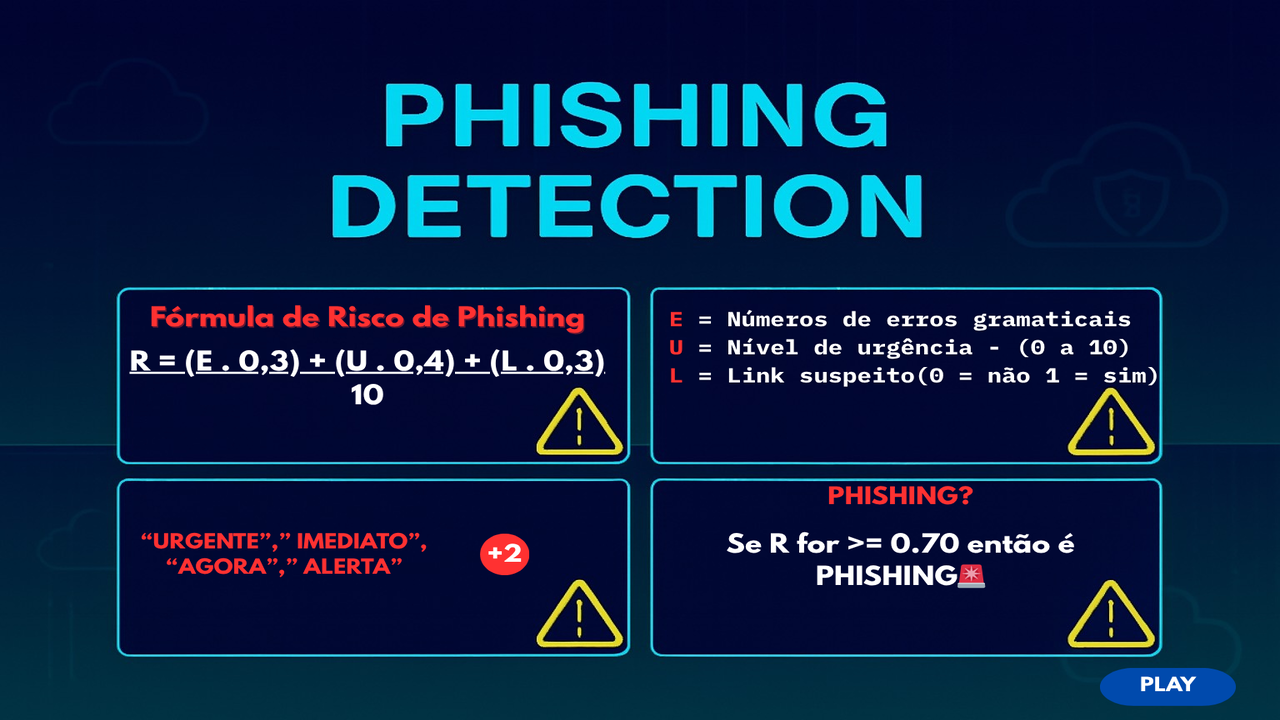
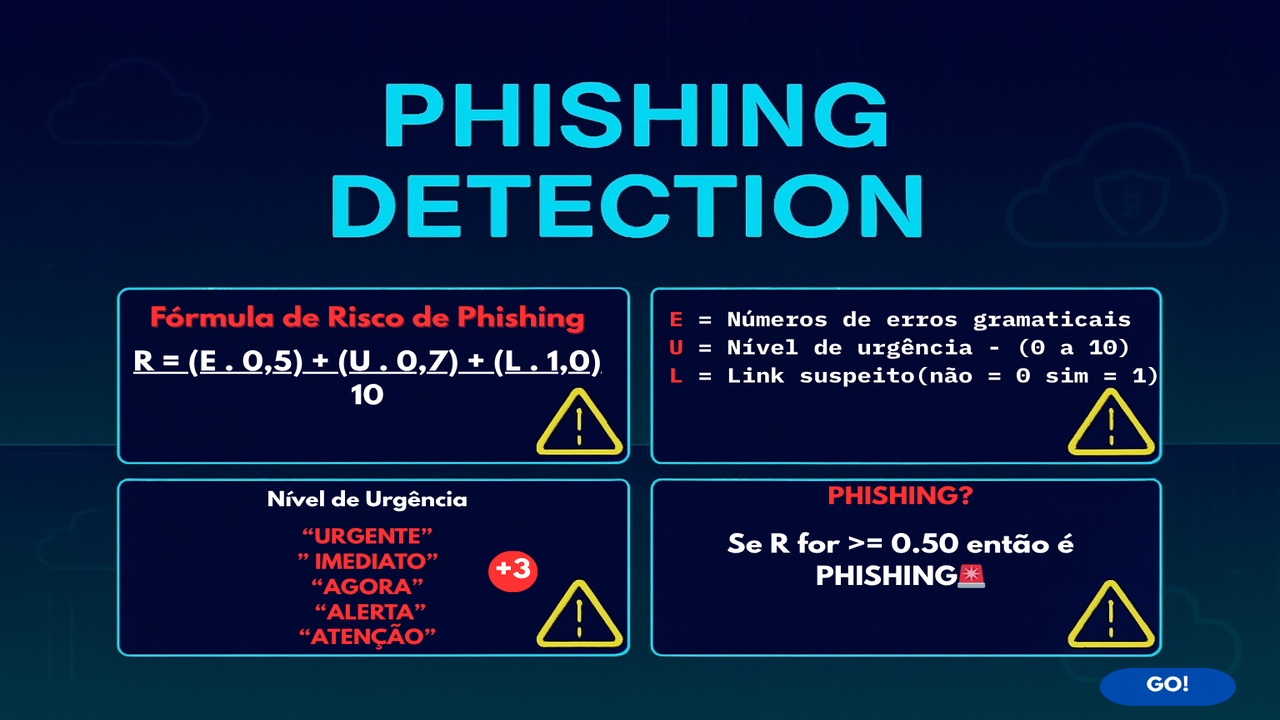
funcionalidades fase 3

diff --git a/HACKING THE SYSTEM/main.c b/HACKING THE SYSTEM/main.c
@@ -120,7 +120,9 @@ int main() {
     tela_fase2.btn_y1 = 180;
     tela_fase2.btn_y2 = 625;
 
-    //CRIANDO STRUCT PARA IR PARA FASE 3
+    //CRIANDO STRUCT PARA FUNCIONALIDADES DA FASE 3
+    // 
+    //-----------------------------------------------------------------//
 
     struct botao tela_fase3;
 
@@ -140,7 +142,21 @@ int main() {
     peixe.btn_x1 = 1140;
     peixe.btn_x2 = 1245;
     peixe.btn_y1 = 40;
-    peixe.btn_y2 = 100;
+    peixe.btn_y2 = 105;
+
+    struct botao phishing;
+    phishing.btn_x1 = 245;
+    phishing.btn_x2 = 465;
+    phishing.btn_y1 = 600;
+    phishing.btn_y2 = 653;
+
+    struct botao legitimo;
+    legitimo.btn_x1 = 840;
+    legitimo.btn_x2 = 1055;
+    legitimo.btn_y1 = 600;
+    legitimo.btn_y2 = 653;
+
+    //-----------------------------------------------------------------//
 
     //STRUCT PARA TELA DE PROXIMA FASE
 
@@ -255,7 +271,9 @@ int main() {
     ALLEGRO_BITMAP* guanabara_fase2 = al_load_bitmap("GAFANHOTO2.png");
     ALLEGRO_BITMAP* guanabara_fase3 = al_load_bitmap("GAFANHOTO3.png");
 	ALLEGRO_BITMAP* sprite = al_load_bitmap("PERSONAGEM.png");
-    ALLEGRO_BITMAP* tela_phishing1 = al_load_bitmap("PHISHING(invasao).png");
+    ALLEGRO_BITMAP* tela_phishing1 = al_load_bitmap("PHISHING(pagamento).png");
+    ALLEGRO_BITMAP* tela_phishing2 = al_load_bitmap("LEGITIMO(entrega).png");
+
 
 
     ALLEGRO_EVENT_QUEUE* fila_eventos = al_create_event_queue(); // criação da fila de eventos
@@ -278,6 +296,9 @@ int main() {
 
     // CRIANDO UMA VÁRIAVEL DE VELOCIDADE PARA O PERSONGEM
     int velocidade_personagem = 10;
+
+    // VARIÁVEL DE RESPOSTAS DA FASE 3
+    int respostas_fase3 = 0;
 
     bool jogando = true;
     while (jogando) {
@@ -584,6 +605,11 @@ int main() {
             if (mouseX >= prox_fase.btn2_x1 && mouseX <= prox_fase.btn2_x2 && mouseY >= prox_fase.btn2_y1 && mouseY <= prox_fase.btn2_y2) { tela = 0; }
         }
     }
+
+
+    //--------------------------FASE-3-----------------------------//
+    // 
+  
     //TELA COM A FASE 3 DESBLOQUEADA
     if (tela == 14) {
         al_clear_to_color(al_map_rgb(0,0,144));
@@ -597,8 +623,7 @@ int main() {
 
         }
 
-        
-        
+
     }
 
     //TELA DE FASE COM O GUANABARA 3
@@ -619,25 +644,59 @@ int main() {
         }
     }
 
-    //TELA MENAGENS
+    //TELA MENSAGENS
 
     if (tela == 17) {
         al_draw_bitmap(tela_phishing1, 0, 0, 0);
-        //al_draw_filled_rectangle(peixe.btn_x1, peixe.btn_y1, peixe.btn_x2, peixe.btn_y2, al_map_rgb(255, 154, 32));
-        if (evento.mouse.button & 1) {
-            if (mouseX >= peixe.btn_x1 && mouseX <= peixe.btn_x2 && mouseY >= peixe.btn_y1 && mouseY <= peixe.btn_y2) { tela = 16; }
+
+        if (evento.type == ALLEGRO_EVENT_MOUSE_BUTTON_DOWN && (evento.mouse.button & 1)) {
+            if (mouseX >= peixe.btn_x1 && mouseX <= peixe.btn_x2 && mouseY >= peixe.btn_y1 && mouseY <= peixe.btn_y2) {
+                tela = 16;
+                continue;
+            }
+            if (mouseX >= phishing.btn_x1 && mouseX <= phishing.btn_x2 && mouseY >= phishing.btn_y1 && mouseY <= phishing.btn_y2) {
+                respostas_fase3++;
+                tela = 18;
+                continue;
+            }
+            if (mouseX >= legitimo.btn_x1 && mouseX <= legitimo.btn_x2 && mouseY >= legitimo.btn_y1 && mouseY <= legitimo.btn_y2) {
+                tela = 18;
+                continue;
+            }
         }
-
     }
-
-  
-    //TELA FINAL
 
     if (tela == 18) {
-        al_draw_bitmap(tela_final, 0, 0, 0);
-        
-    }
+        al_draw_bitmap(tela_phishing2, 0, 0, 0);
 
+        if (evento.type == ALLEGRO_EVENT_MOUSE_BUTTON_DOWN && (evento.mouse.button & 1)) {
+
+            if (mouseX >= phishing.btn_x1 && mouseX <= phishing.btn_x2 && mouseY >= phishing.btn_y1 && mouseY <= phishing.btn_y2) {
+                tela = 15;
+                continue;
+            }
+
+            if (mouseX >= legitimo.btn_x1 && mouseX <= legitimo.btn_x2 && mouseY >= legitimo.btn_y1 && mouseY <= legitimo.btn_y2) {
+                respostas_fase3++;
+                if (respostas_fase3 >= 2) {
+                    tela = 25;
+                }
+                else
+                {
+                    tela = 15;
+                }
+                continue;
+            }
+        }
+    }
+    
+    
+    //--------------TELA FINAL-------------------//
+
+    
+    if (tela == 25) {
+        al_draw_bitmap(tela_final, 0, 0, 0);    
+   }
 
 
 
